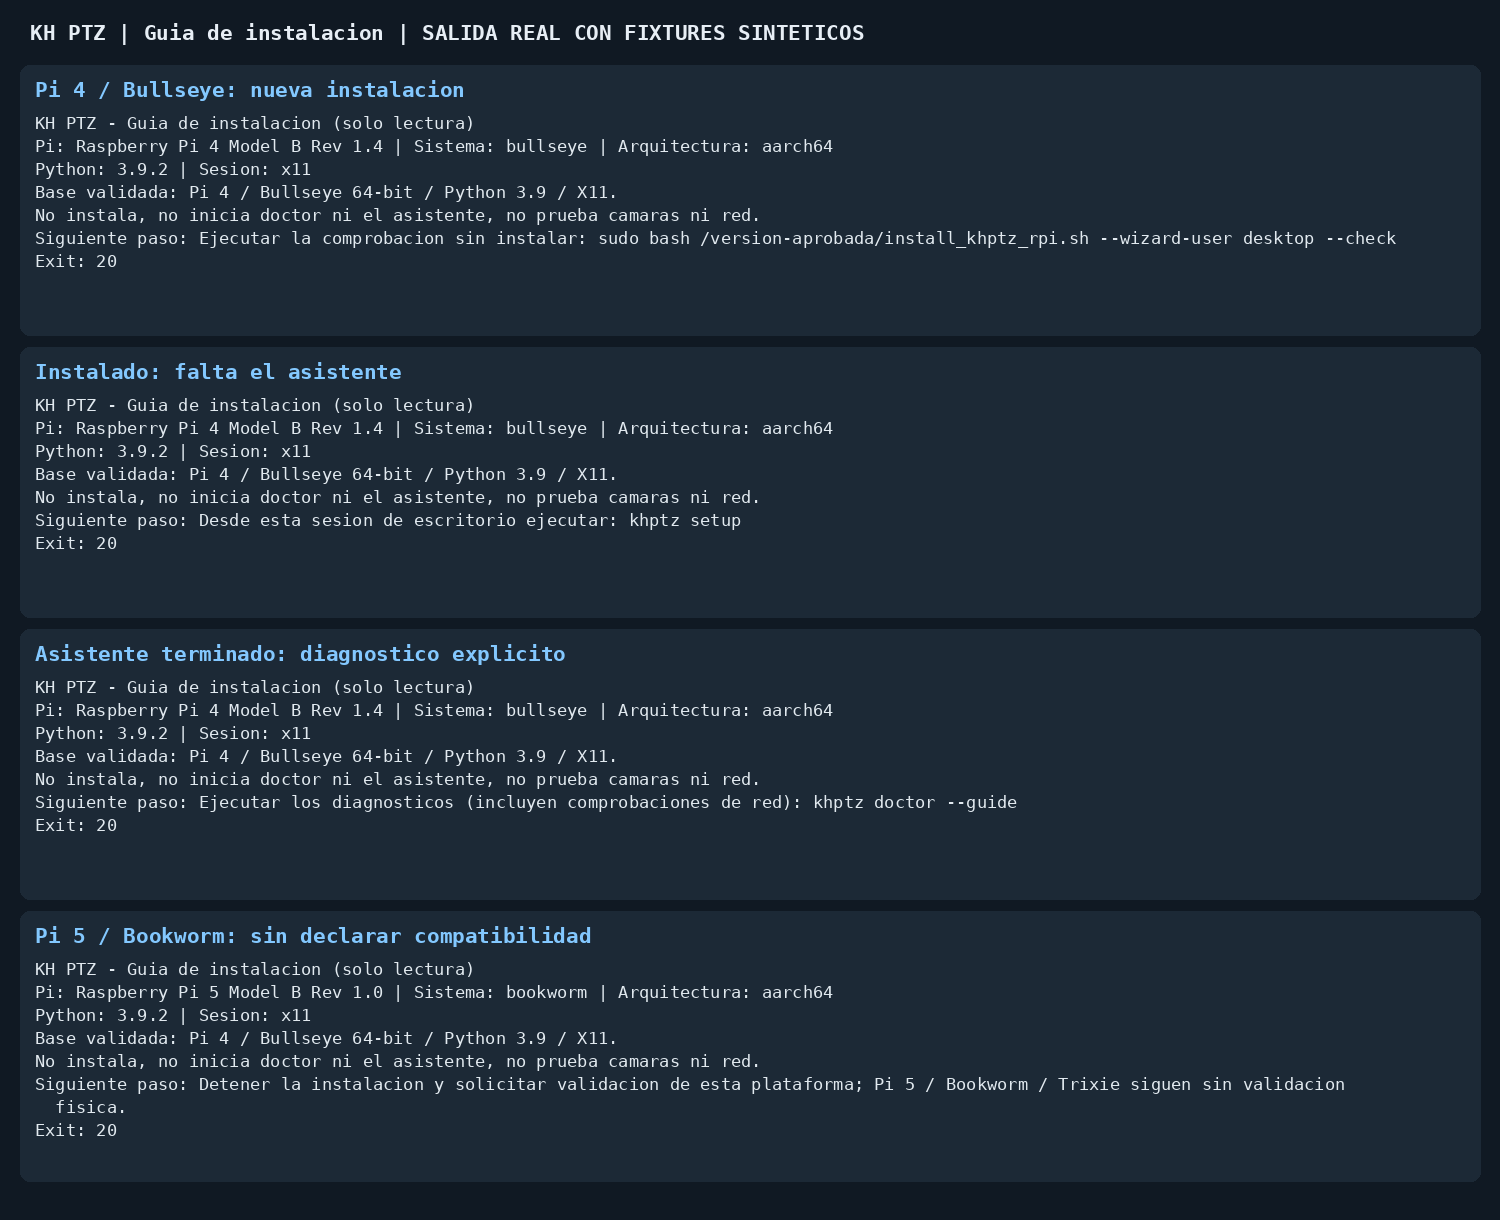
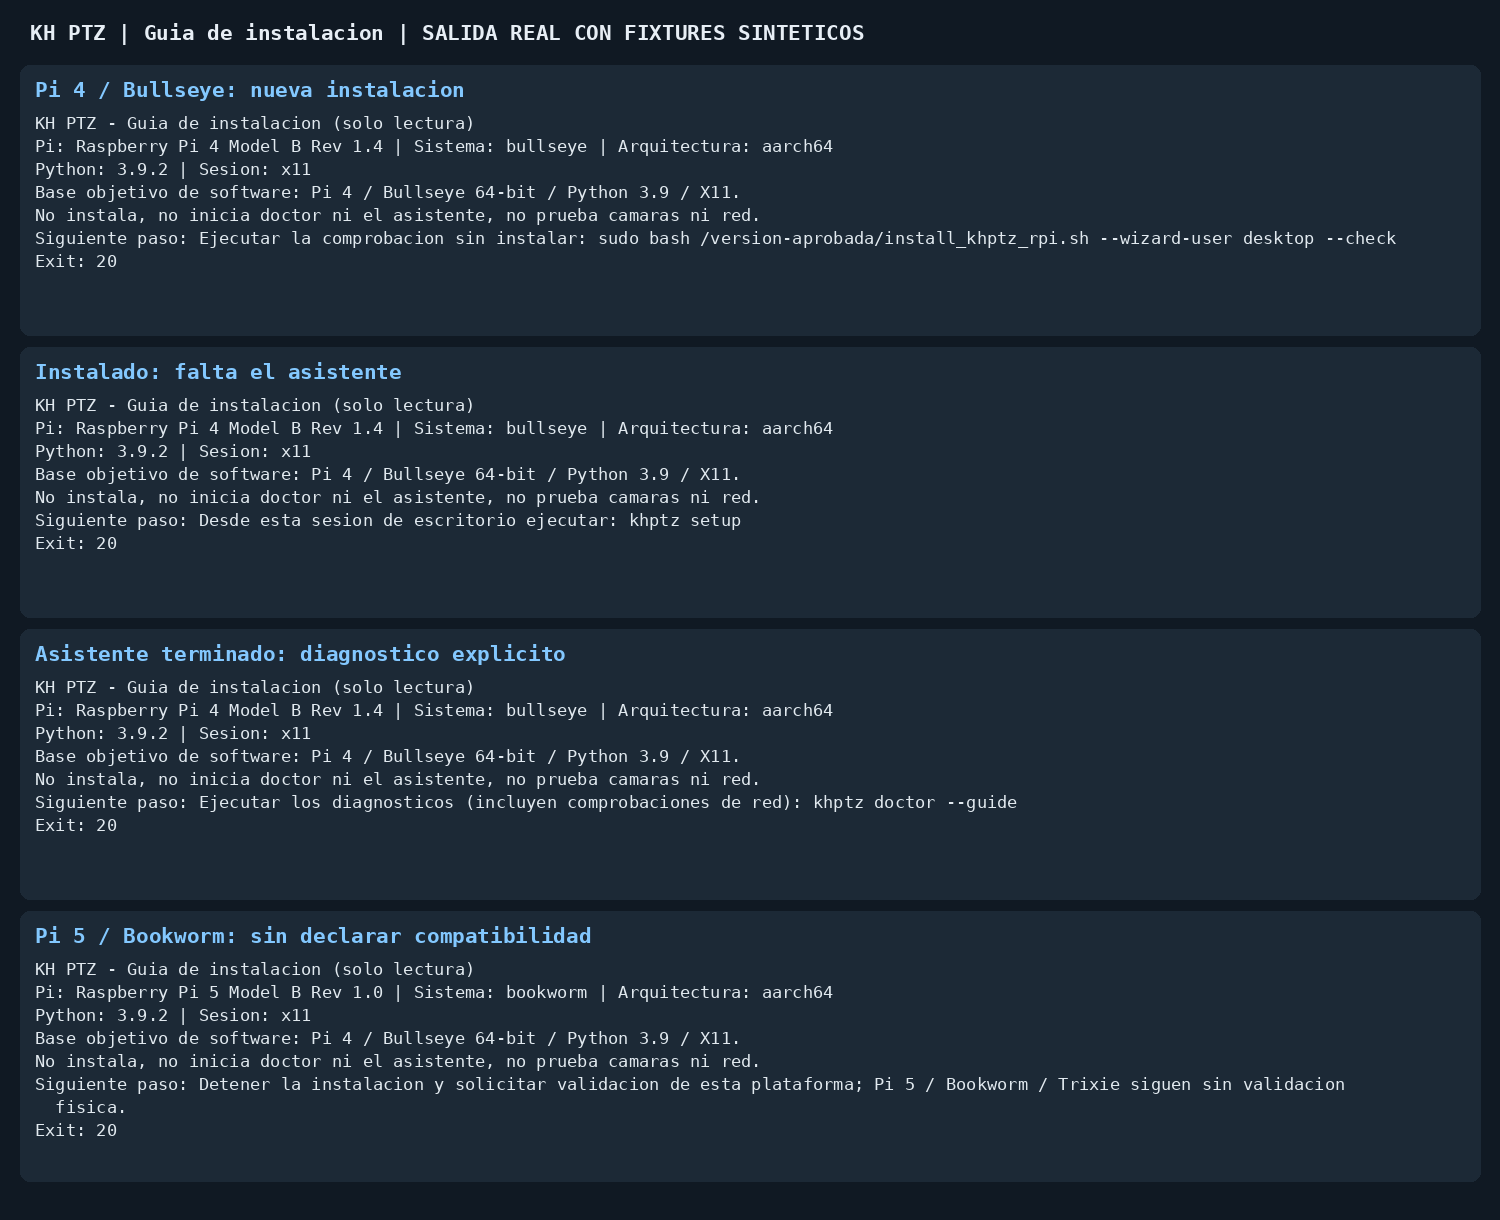
fix: keep one next action across composed readiness checks

diff --git a/tests/test_install_guide.py b/tests/test_install_guide.py
@@ -157,3 +157,49 @@ def test_guide_rejects_install_options_before_host_access(extra):
     assert result.returncode == 30
     assert "--guide accepts only" in result.stderr
     assert "Checking how this script was started" not in result.stdout
+
+
+@pytest.mark.parametrize("mode,expected", [("real", 0), ("stripped", 30)])
+def test_composed_wrapper_and_real_child_have_one_next_action(mode, expected):
+    """Run wrapper readiness+completion with actual child, stubbed host probes."""
+    source = (ROOT / "install_khptz_rpi.sh").read_text()
+    start = source.index('_CHECK_ARGS=(--check')
+    end = source.index('# ── Install / repair', start)
+    harness = ROOT / "tests/installer/readiness_harness.sh"
+    # bash() dispatches the wrapper's child call to the existing inert harness.
+    # That harness runs the REAL child checks, not a success-only fake.
+    script = f'''
+set -euo pipefail
+CHECK_ONLY=true; DEV_MODE=false; ALLOW_DIRTY=false; GUI_MODE=system
+PASSTHROUGH=(); SELF=/approved/install_khptz_rpi.sh; WIZARD_USER=desktop
+INSTALLER=unused
+info() {{ echo "$*"; }}
+fatal() {{ echo "FATAL: $*"; exit 30; }}
+bash() {{ shift; command bash {str(harness)!r} {mode} "$@"; }}
+''' + source[start:end]
+    result = subprocess.run(["bash", "-c", script], capture_output=True, text=True)
+    assert result.returncode == expected, result.stdout + result.stderr
+    assert "Run without --check" not in result.stdout
+    assert "=== KHPTZ Installer Readiness Check ===" in result.stdout
+    if mode == "real":
+        assert result.stdout.count("Siguiente paso:") == 1
+        assert "All required checks passed" in result.stdout
+    else:
+        assert "[FAIL]" in result.stdout
+        assert "blocking check(s) failed" in result.stdout
+        assert "Siguiente paso:" not in result.stdout
+
+
+def test_direct_child_check_retains_its_original_next_action():
+    harness = ROOT / "tests/installer/readiness_harness.sh"
+    result = subprocess.run(["bash", str(harness), "real"], capture_output=True, text=True)
+    assert result.returncode == 0
+    assert result.stdout.count("Run without --check") == 1
+
+
+def test_child_suppression_flag_cannot_enter_write_side():
+    result = subprocess.run(["bash", str(ROOT / "runtime/installer/install.sh"),
+                             "--no-check-next-action"], capture_output=True, text=True)
+    assert result.returncode == 1
+    assert "requires --check" in result.stderr
+    assert "Checking prerequisites" not in result.stdout

diff --git a/runtime/install_guide.py b/runtime/install_guide.py
@@ -79,7 +79,7 @@ def main(argv=None) -> int:
     print("KH PTZ - Guia de instalacion (solo lectura)")
     print(f"Pi: {model} | Sistema: {codename} | Arquitectura: {arch}")
     print(f"Python: {platform.python_version()} | Sesion: {session}")
-    print("Base validada: Pi 4 / Bullseye 64-bit / Python 3.9 / X11.")
+    print("Base objetivo de software: Pi 4 / Bullseye 64-bit / Python 3.9 / X11.")
     print("No instala, no inicia doctor ni el asistente, no prueba camaras ni red.")
     action, code = next_step(
         model=model, codename=codename, architecture=arch,

diff --git a/docs/GUIDED_INSTALL.md b/docs/GUIDED_INSTALL.md
@@ -39,7 +39,7 @@ de red y camaras**: ejecutarlo solo con permiso para el equipo correspondiente.
 Una configuracion pendiente pide revisar el primer problema pendiente;
 no manda reabrir el asistente con `--force` ni sobrescribir datos a ciegas.
 
-La base validada hoy es Bullseye 64-bit/Python 3.9 en Pi 4 con X11. Detectarla
+La base objetivo de software es Bullseye 64-bit/Python 3.9 en Pi 4 con X11. Detectarla
 no prueba esta unidad concreta, pantalla, reinicio ni camaras. Pi 5, Bookworm,
 Trixie, Wayland y Python nuevos no se declaran compatibles: el ensayo Bookworm
 en contenedor no es validacion fisica. Ninguna ruta de la guia habilita un
@@ -57,3 +57,7 @@ estado sustituidas por fixtures. No representa pruebas en Raspberry Pi real.
 Cambio limitado a orientacion, salida de comprobacion y opcion del diagnostico.
 No cambia aprovisionamiento, permisos, servicios, hardening, backup ni restore.
 Para deshacerlo, revertir el PR; no se crea estado ni hay migracion de datos.
+
+El wrapper pasa `--no-check-next-action` al hijo solo en la comprobacion: el
+hijo conserva diagnosticos y exit code, pero deja al wrapper el unico siguiente
+paso. `install.sh --check` directo conserva su salida anterior.
